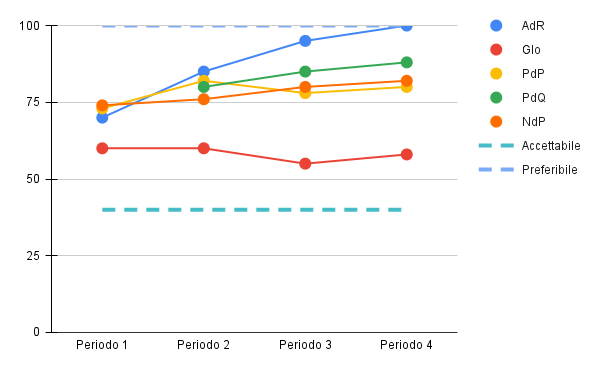
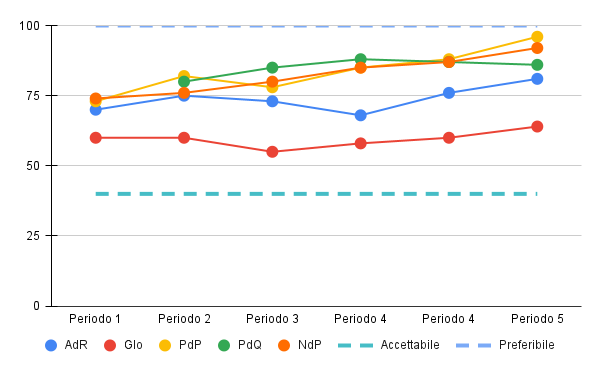
Primo inserimento di grafici con relativa descrizione

diff --git a/RTB/Sottosezioni/Piano_di_qualifica/Qualità_Fornitura.tex b/RTB/Sottosezioni/Piano_di_qualifica/Qualità_Fornitura.tex
@@ -1,3 +1,32 @@
 \subsection{Qualità di processo - Fornitura}
 
-\subsubsection{Estimeted at Completition}
+\subsubsection{M2EAC - Estimed at Completion}
+
+\begin{figure}[H]
+    \centering
+    \includegraphics[width=0.8\textwidth]{../Images/PianoDiQualifica/M2EAC.png}
+    \caption{Proiezione della stima del costo totale nei vari periodi di progetto.}
+    \label{fig:1}
+\end{figure}
+
+\textbf{RTB}: si nota come nei primi periodi la stima del costo totale sia in linea con il budget inzialmente preventivato. Tuttavia al quinto periodo, periodo di sessione degli esami, il costo totale è di molto inferiore al budget preventivato. Questo è dovuto al fatto che in quel periodo c'è stato un calo di attività, in quanto i membri del gruppo erano impegnati con gli esami universitari. Le attività però rimanenti sono state completate con un costo inferiore a quello preventivato e questo ha portato ad una riduzione del costo totale.\\
+
+\subsubsection{M7EV- Earned Value + M8PV - Planned Value} 
+\begin{figure}[H]
+    \centering
+    \includegraphics[width=0.8\textwidth]{../Images/PianoDiQualifica/EV_PV.png}
+    \caption{Proiezione dell’EV e del PV nei vari periodi di progetto.}
+    \label{fig:2}
+\end{figure}
+
+\textbf{RTB}: Dall'analisi del grafico, è chiaro che le curve del valore guadagnato (Earned Value) e del valore pianificato (Planned Value) si sovrappongono, suggerendo che il lavoro effettivamente completato corrisponde alla pianificazione. Questa coincidenza implica un progresso positivo rispetto alla pianificazione del progetto.
+
+\subsubsection{M5AC - Actual Cost + M9ETC - Estimate to Complete}
+\begin{figure}[H]
+    \centering
+    \includegraphics[width=0.8\textwidth]{../Images/PianoDiQualifica/AC_ETC.png}
+    \caption{Proiezione dell’AC e dell’ETC nei vari periodi di progetto.}
+    \label{fig:2}
+\end{figure}
+
+\textbf{RTB}: Il grafico illustra l'Actual Cost (AC), che rappresenta i costi effettivamente sostenuti fino al periodo corrente per il lavoro eseguito, e l'Estimate to Complete (ETC), che denota la stima dei costi rimanenti per completare il progetto durante i vari periodi. Si osserva che l'ETC tende a diminuire, come atteso, mentre l'AC mostra un incremento proporzionale alla riduzione dell'ETC.

diff --git a/RTB/Sezioni/Piano_di_qualifica/Cruscotto.tex b/RTB/Sezioni/Piano_di_qualifica/Cruscotto.tex
@@ -1,6 +1,6 @@
 \section{Cruscotto}
 
 
+\input{Sottosezioni/Piano_di_qualifica/Qualità_Fornitura}
 \input{Sottosezioni/Piano_di_qualifica/Qualità_Documentazione}
 
-\input{Sottosezioni/Piano_di_qualifica/Qualità_Fornitura}
